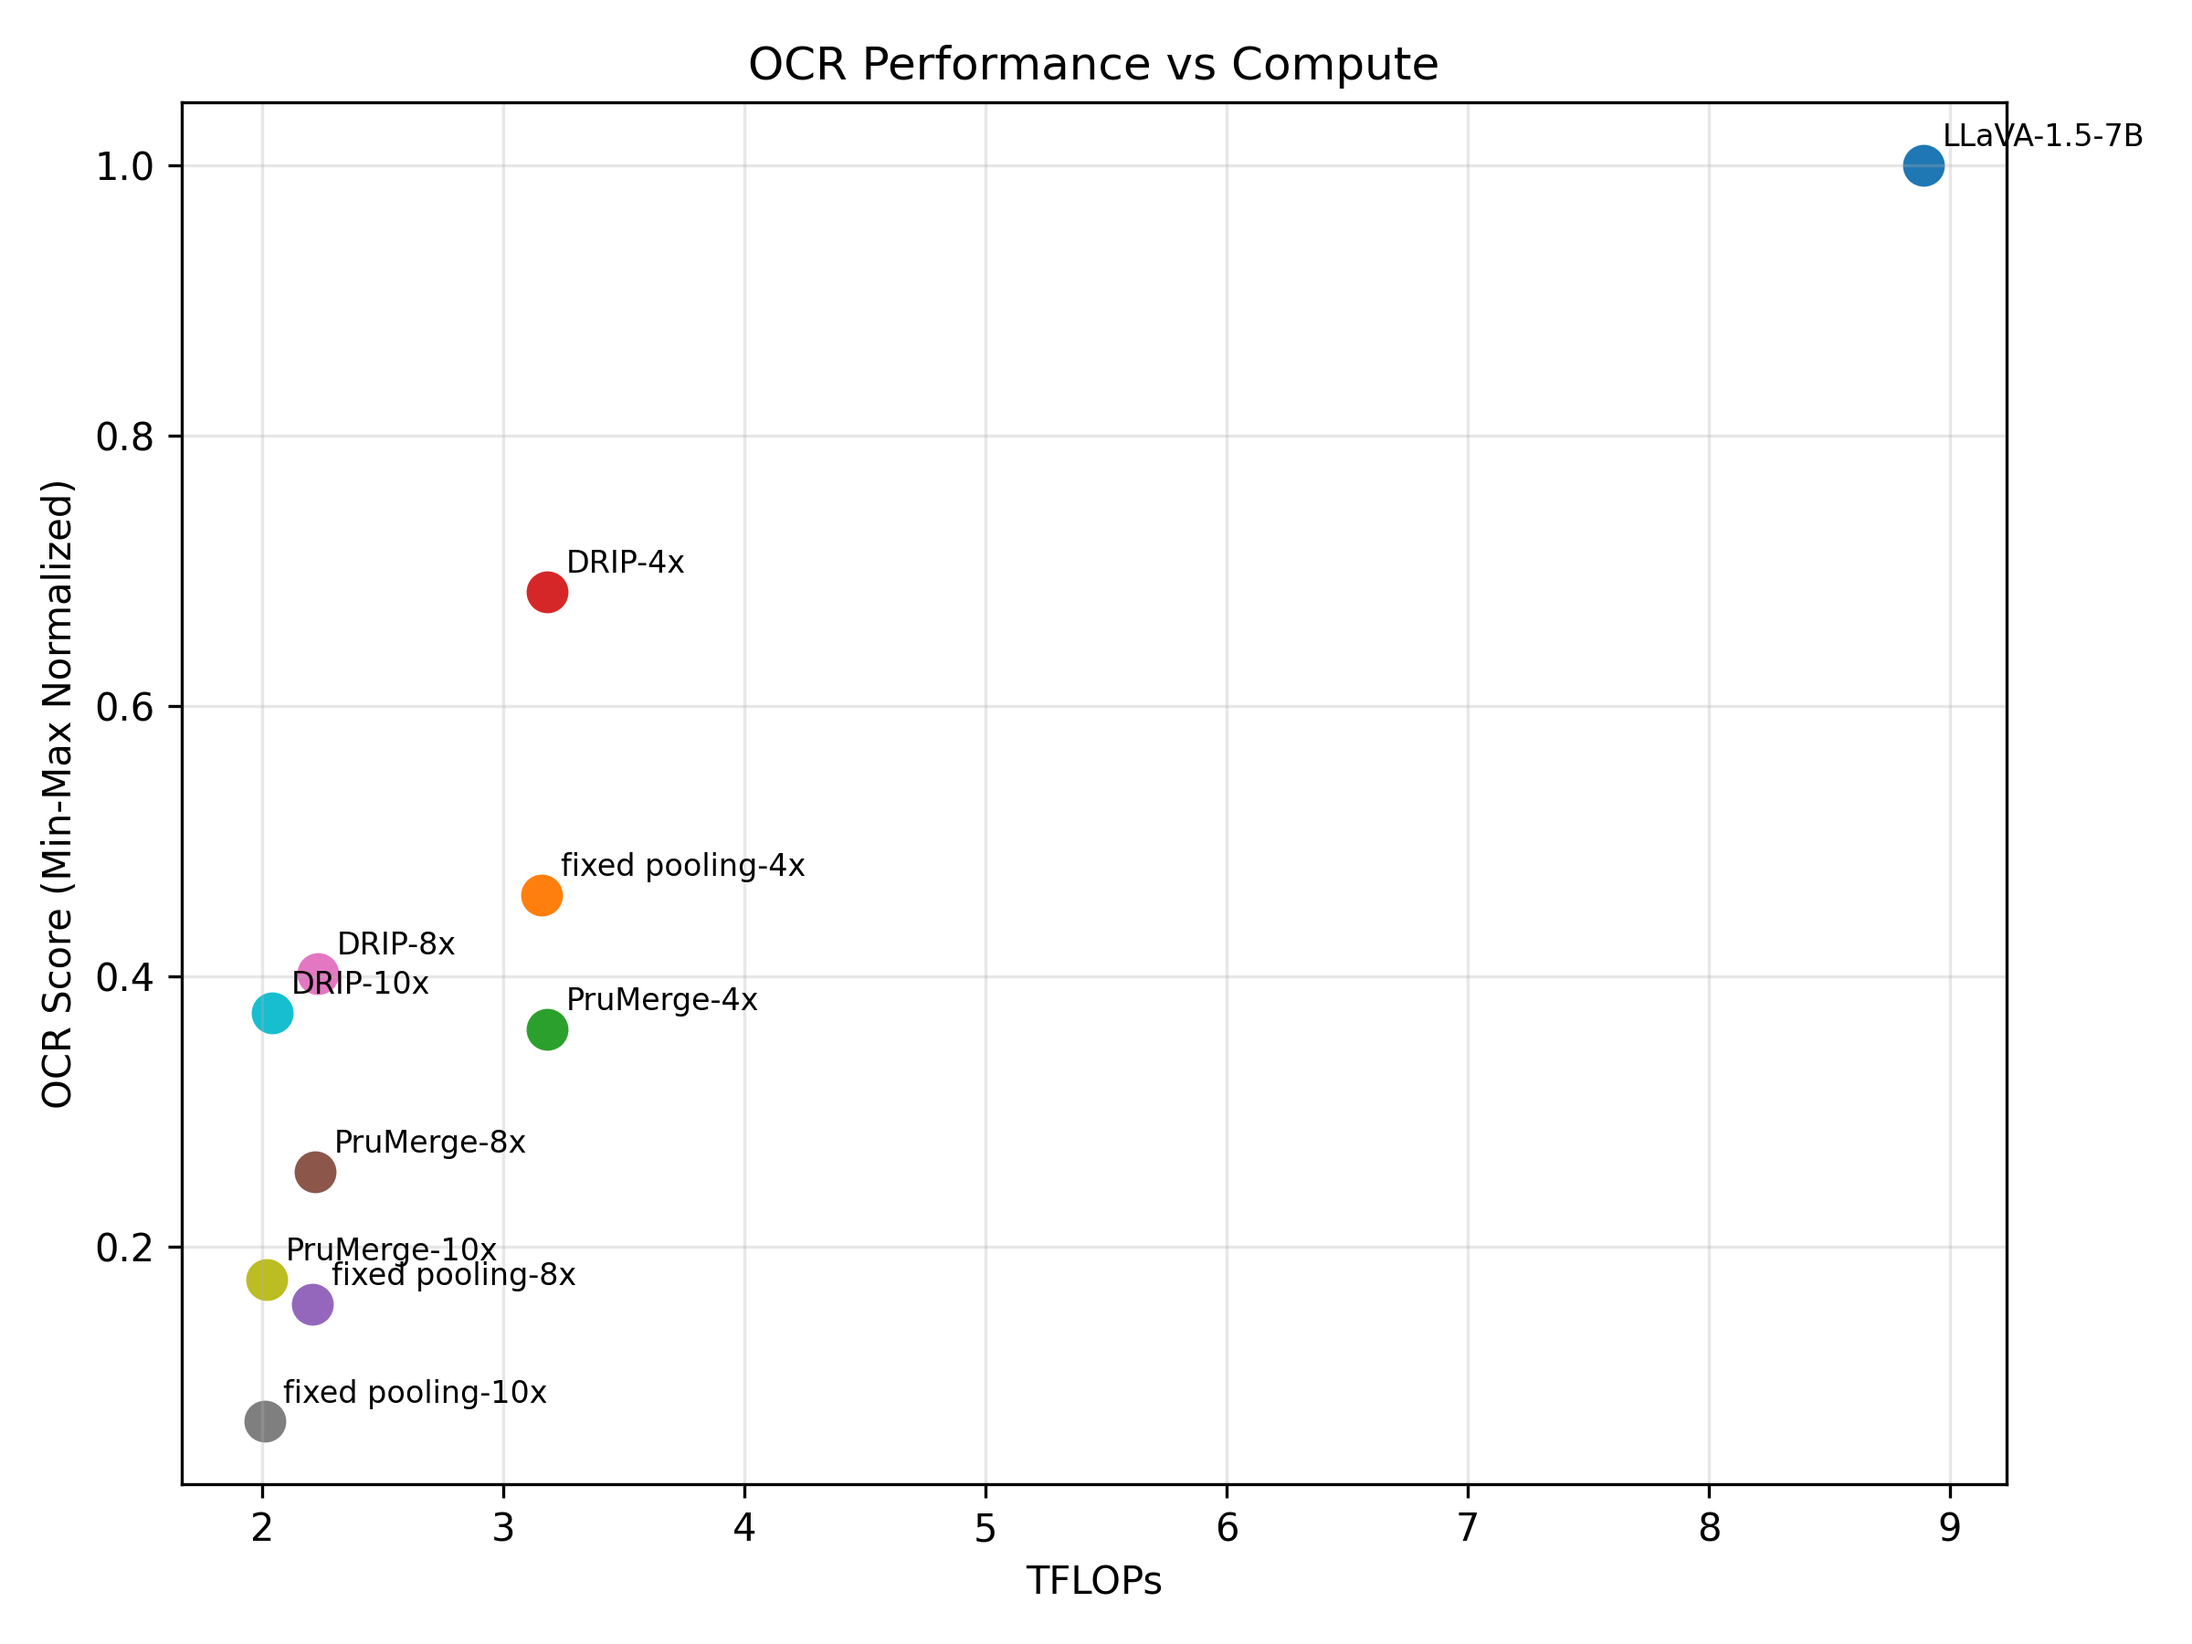
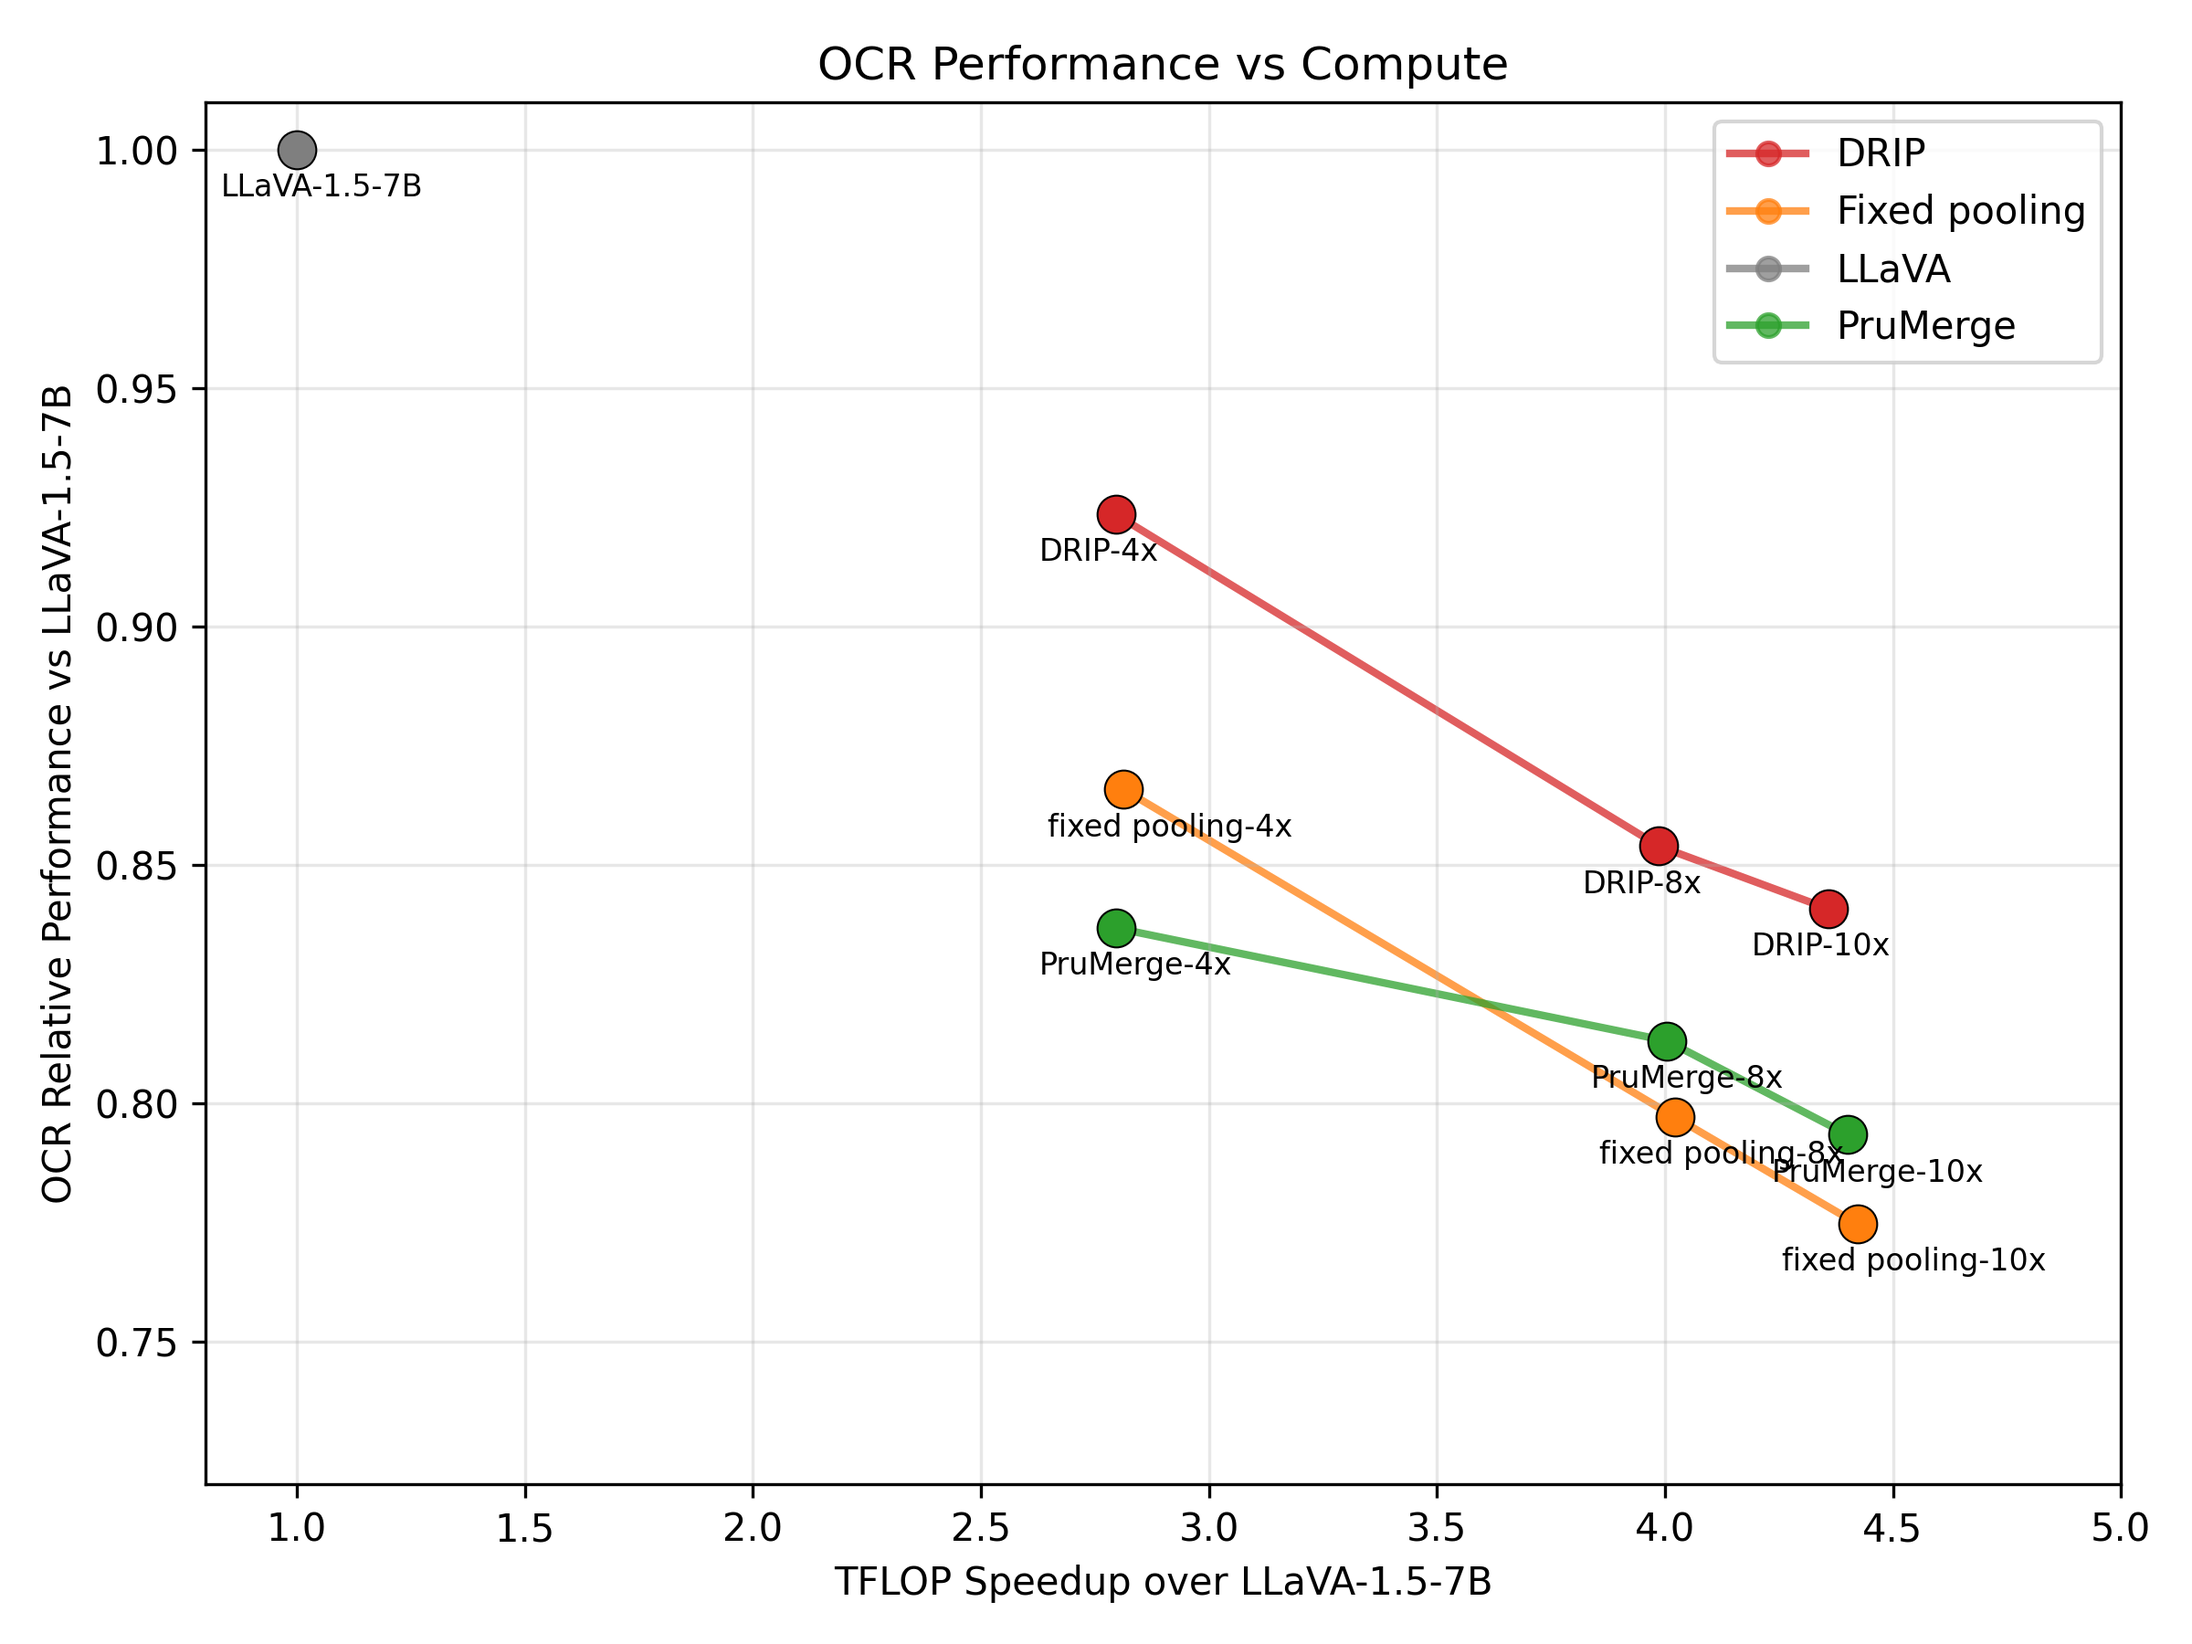
gather more results and refined tradeoff figure

diff --git a/src/tradeoff_analysis.py b/src/tradeoff_analysis.py
@@ -2,68 +2,137 @@ import pandas as pd
 import matplotlib.pyplot as plt
 from sklearn.preprocessing import MinMaxScaler
 
-CSV_ID = "lora_7B_last"
 
-df = pd.read_csv(f"results/{CSV_ID}.csv")
+def get_category(model_name):
+    if model_name.startswith("fixed pooling"):
+        return "Fixed pooling"
+    elif model_name.startswith("PruMerge"):
+        return "PruMerge"
+    elif model_name.startswith("DRIP"):
+        return "DRIP"
+    elif model_name.startswith("LLaVA"):
+        return "LLaVA"
+    else:
+        return "Other"
 
 
+def plot_tradeoff(df, score_col, ylabel, title, save_path):
+    category_colors = {
+        "LLaVA": "tab:gray",
+        "Fixed pooling": "tab:orange",
+        "PruMerge": "tab:green",
+        "DRIP": "tab:red",
+        "Other": "tab:gray",
+    }
 
-ocr_cols = ["TextVQA", "OCRBench", "OCRBenchv2", "DocVQA", "ChartQAPro"]
-all_metric_cols = ["VQAv2", "SQA", "MME", "MM-Bench", "GQA", "MMMU", "TextVQA", "OCRBench", "OCRBenchv2", "DocVQA", "ChartQAPro", "POPE", "LLaVA-Wild", "MM-Vet"]
-scaler = MinMaxScaler()
-normalized = pd.DataFrame(
-    scaler.fit_transform(df[all_metric_cols]),
-    columns=all_metric_cols
-)
-df["OverallScore"] = normalized[all_metric_cols].mean(axis=1)
-df["OCRScore"] = normalized[ocr_cols].mean(axis=1)
+    df = df.copy()
+    df["Category"] = df["Model"].apply(get_category)
+    baseline_tflops = df.loc[df["Model"] == "LLaVA-1.5-7B", "TFLOPs"].iloc[0]
+    df["Speedup"] = baseline_tflops / df["TFLOPs"]
 
-# =========================
-# Plot 1: Overall Tradeoff
-# =========================
+    plt.figure(figsize=(8, 6))
 
-plt.figure(figsize=(8, 6))
+    # Connect dots within each category
+    for category, group in df.groupby("Category"):
+        group = group.sort_values("Speedup")
 
-for _, row in df.iterrows():
-    plt.scatter(row["TFLOPs"], row["OverallScore"], s=100)
-    plt.annotate(
-        row["Model"],
-        (row["TFLOPs"], row["OverallScore"]),
-        xytext=(5, 5),
-        textcoords="offset points",
-        fontsize=8
+        plt.plot(
+            group["Speedup"],
+            group[score_col],
+            color=category_colors.get(category, "tab:gray"),
+            linewidth=2.0,
+            marker="o",
+            alpha=0.75,
+            zorder=1,
+            label=category
+        )
+
+    # Scatter + labels
+    for _, row in df.iterrows():
+        category = row["Category"]
+
+        plt.scatter(
+            row["Speedup"],
+            row[score_col],
+            s=100,
+            color=category_colors.get(category, "tab:gray"),
+            edgecolor="black",
+            linewidth=0.5,
+            zorder=2
+        )
+
+        plt.annotate(
+            row["Model"],
+            (row["Speedup"], row[score_col]),
+            xytext=(-20, -10),
+            textcoords="offset points",
+            ha="left",
+            va="center",
+            fontsize=8
+        )
+
+    plt.xlabel("TFLOP Speedup over LLaVA-1.5-7B")
+    plt.title(title.replace("Compute", "Speedup"))
+    plt.ylabel(ylabel)
+    plt.title(title)
+    plt.grid(True, alpha=0.3, which="both")
+    plt.legend()
+    plt.xlim(0.8, 5.0)
+    plt.ylim(0.72, 1.01)
+    plt.tight_layout()
+
+    plt.savefig(save_path, dpi=300)
+    plt.show()
+
+
+if __name__ == "__main__":
+
+    CSV_ID = "lora_7B_last"
+
+    df = pd.read_csv(f"results/{CSV_ID}.csv")
+
+    ocr_cols = [
+        "TextVQA",
+        "OCRBench",
+        "OCRBenchv2",
+        "DocVQA",
+        "ChartQAPro"
+    ]
+
+    all_metric_cols = [
+        "VQAv2",
+        "SQA",
+        "MME",
+        "MM-Bench",
+        "GQA",
+        "MMMU",
+        "TextVQA",
+        "OCRBench",
+        "OCRBenchv2",
+        "DocVQA",
+        "ChartQAPro",
+        "POPE",
+        "LLaVA-Wild",
+        "MM-Vet"
+    ]
+
+    baseline_row = df[df["Model"] == "LLaVA-1.5-7B"].iloc[0]
+    relative = df[all_metric_cols].div(baseline_row[all_metric_cols], axis=1)
+    df["OverallScore"] = relative[all_metric_cols].mean(axis=1)
+    df["OCRScore"] = relative[ocr_cols].mean(axis=1)
+
+    plot_tradeoff(
+        df=df,
+        score_col="OverallScore",
+        ylabel="Overall Relative Performance vs LLaVA-1.5-7B",
+        title="Overall Performance vs Compute",
+        save_path=f"results/{CSV_ID}_overall_tradeoff.png"
     )
 
-plt.xlabel("TFLOPs")
-plt.ylabel("Overall Score (Min-Max Normalized)")
-plt.title("Overall Performance vs Compute")
-plt.grid(True, alpha=0.3)
-plt.tight_layout()
-
-plt.savefig(f"results/{CSV_ID}_overall_tradeoff.png", dpi=300)
-plt.show()
-
-# =========================
-# Plot 2: OCR Tradeoff
-# =========================
-
-plt.figure(figsize=(8, 6))
-
-for _, row in df.iterrows():
-    plt.scatter(row["TFLOPs"], row["OCRScore"], s=100)
-    plt.annotate(
-        row["Model"],
-        (row["TFLOPs"], row["OCRScore"]),
-        xytext=(5, 5),
-        textcoords="offset points",
-        fontsize=8
+    plot_tradeoff(
+        df=df,
+        score_col="OCRScore",
+        ylabel="OCR Relative Performance vs LLaVA-1.5-7B",
+        title="OCR Performance vs Compute",
+        save_path=f"results/{CSV_ID}_ocr_tradeoff.png"
     )
-
-plt.xlabel("TFLOPs")
-plt.ylabel("OCR Score (Min-Max Normalized)")
-plt.title("OCR Performance vs Compute")
-plt.grid(True, alpha=0.3)
-plt.tight_layout()
-
-plt.savefig(f"results/{CSV_ID}_ocr_tradeoff.png", dpi=300)
-plt.show()
